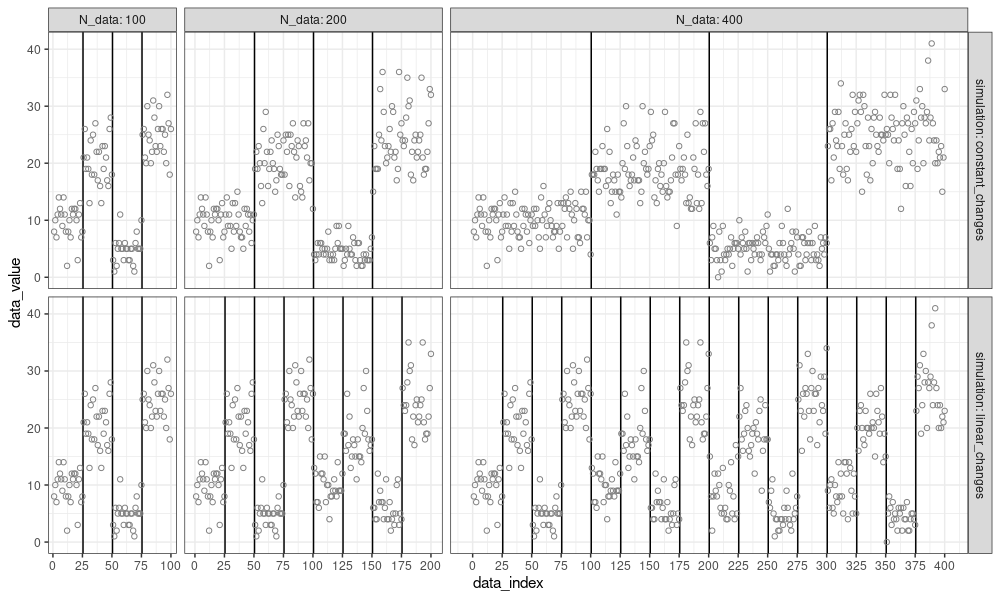
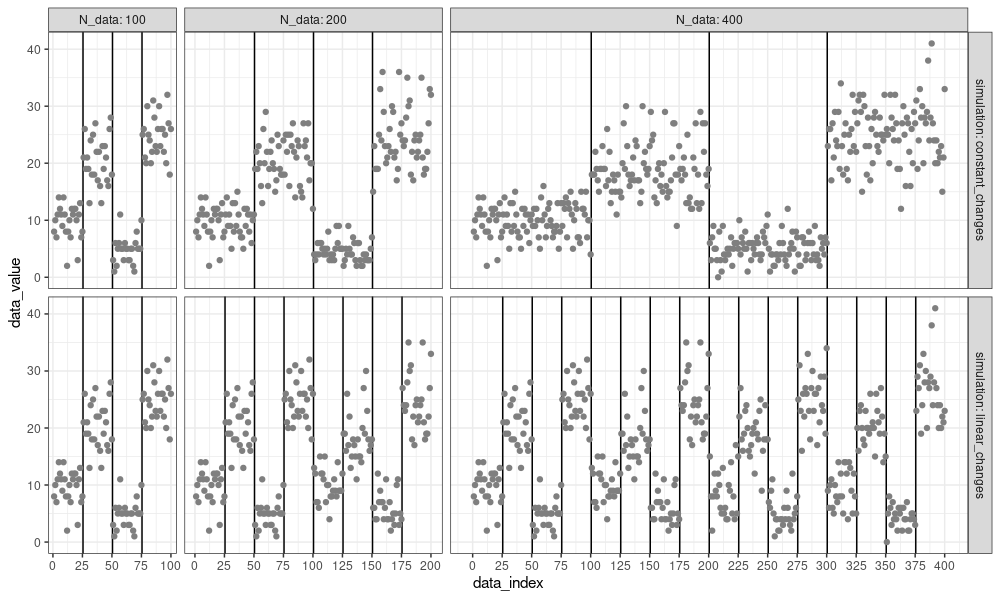
shape

diff --git a/_posts/2025-02-25-PELT-vs-FPOP.md b/_posts/2025-02-25-PELT-vs-FPOP.md
@@ -176,7 +176,6 @@ ggplot()+
   geom_point(aes(
     data_index, data_value),
     color="grey50",
-    shape=1,
     data=sim_data)+
   facet_grid(simulation ~ N_data, labeller=label_both, scales="free_x", space="free")+
   scale_x_continuous(
@@ -397,7 +396,6 @@ ggplot()+
   scale_color_manual(values=algo.colors)+
   geom_point(aes(
     data_index, candidates, color=algo),
-    shape=1,
     data=pelt_info)+
   facet_grid(simulation ~ N_data, labeller=label_both, scales="free_x", space="free")+
   scale_x_continuous(
@@ -525,7 +523,6 @@ ggplot()+
   scale_color_manual(values=algo.colors)+
   geom_point(aes(
     data_index, candidates, color=algo),
-    shape=1,
     data=both_info)+
   facet_grid(simulation ~ N_data, labeller=label_both, scales="free_x", space="free")+
   scale_x_continuous(
